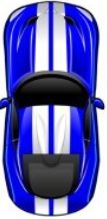
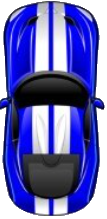
add Tiles to map and remove fon from png car

diff --git a/src/components/MainCars/MainCars.tsx b/src/components/MainCars/MainCars.tsx
@@ -1,7 +1,7 @@
 import { useEffect, useState, useRef } from 'react';
 // import { useLocation } from 'react-router-dom';
 
-import { MapContainer, TileLayer } from 'react-leaflet';
+import { MapContainer, TileLayer, LayersControl } from 'react-leaflet';
 import 'leaflet-rotatedmarker';
 import L from 'leaflet';
 
@@ -21,6 +21,8 @@ function MainCars() {
 
   const [carsBounds, setCarsBounds] = useState<L.LatLngBoundsExpression | [] | any>(null)
   const [companyData, setCompanyData] = useState<ICompanyData | undefined>()
+  const [tileId, setTileId] = useState('tileId-1')
+
   const carsMapVariant = useAppSelector((state) => state.carsMap.carsMapConfig.variant);
 
   const mapRef = useRef<L.Map | null>(null)
@@ -34,8 +36,8 @@ function MainCars() {
   useEffect(() => {
     if (carsMapVariant === 'all') {
 
-      const abortController = new AbortController();
-      const companyData = getCarsFetch(abortController)
+      const abortCtrlInMainCars = new AbortController();
+      const companyData = getCarsFetch(abortCtrlInMainCars)
       companyData
         .then((data) => {
           const carBoundsArray = data.cars.map((car: ICarObject) => {
@@ -53,12 +55,14 @@ function MainCars() {
       if (carsPageconfig.storeReset) {
         dispatch(dataActions.reset())
       }
-      return () => abortController.abort();
+      return () => abortCtrlInMainCars.abort();
     }
 
-  },
+  }, [carsMapVariant, dispatch])
 
-    [carsMapVariant, dispatch])
+  const tileCheckHandler = (id: string) => {
+    setTileId(id)
+  }
 
   return !carsBounds ?
     (<Spinner />)
@@ -80,10 +84,49 @@ function MainCars() {
       >
         {/* <ZoomControl position="topleft" /> */}
         <CustomZoom />
-          <TileLayer
+        <LayersControl position="topright">
+          <LayersControl.Overlay name="Osm map" checked={tileId === 'tileId-1'}>
+            <TileLayer
+              id={'tileId-1'}
             attribution='&amp;copy <a href="http://osm.org/copyright">OpenStreetMap</a> contributors'
             url="https://{s}.tile.osm.org/{z}/{x}/{y}.png"
-        />
+              eventHandlers={{
+                add: (e) => {
+                  tileCheckHandler(e.target.options.id)
+                  console.log("Added Layer:", e.target.options.id);
+                },
+                remove: (e) => {
+                  // console.log("Removed layer:", e.target.id);
+                }
+              }}
+            />
+          </LayersControl.Overlay>
+          <LayersControl.Overlay name="Google map" checked={tileId === 'tileId-2'}>
+            <TileLayer
+              id={'tileId-2'}
+              url="http://{s}.google.com/vt/lyrs=m&x={x}&y={y}&z={z}"
+              subdomains={['mt0', 'mt1', 'mt2', 'mt3']}
+              eventHandlers={{
+                add: (e) => {
+                  tileCheckHandler(e.target.options.id)
+                },
+              }}
+            />
+          </LayersControl.Overlay>
+          <LayersControl.Overlay name="Спутник" checked={tileId === 'tileId-3'}>
+            <TileLayer
+              id={'tileId-3'}
+              url="http://{s}.google.com/vt/lyrs=s&x={x}&y={y}&z={z}"
+              subdomains={['mt0', 'mt1', 'mt2', 'mt3']}
+              eventHandlers={{
+                add: (e) => {
+                  tileCheckHandler(e.target.options.id)
+                },
+              }}
+            />
+          </LayersControl.Overlay>
+        </LayersControl>
+
 
         {String(carsMapVariant) === 'all' && <PainCars mapBounds={carsBounds} carsDataStart={companyData} />}
         {String(carsMapVariant) === 'history' && <PaneHistoryMap />}

diff --git a/src/components/MainCars/PainCars.tsx b/src/components/MainCars/PainCars.tsx
@@ -26,6 +26,7 @@ const PainCars: FC<IPainCars> = ({ mapBounds, carsDataStart }) => {
   const carsFilterObject = useAppSelector((state) => state.carsMap.carsFilter);
 
   const [companyData, setCompanyData] = useState<ICompanyData>(carsDataStart)
+
   const isMobile = useMemo(() => isHasToushScreen(), [])// mobile -> true ? PC -> false
   const map = useMap();
 
@@ -46,7 +47,7 @@ const PainCars: FC<IPainCars> = ({ mapBounds, carsDataStart }) => {
   const getdataForMenuItem = (company: ICompanyData) => {
 
     const dataCarsForMenuItems = company.cars.map((car: ICarObject) => ({
-      car_id: car.car_id,
+      car_id: String(car.car_id),
       car_name: car.car_name,
       checked: true,
       disconnect: false,
@@ -58,7 +59,7 @@ const PainCars: FC<IPainCars> = ({ mapBounds, carsDataStart }) => {
 
   // Фильтр для передачи в Marker (принимает маасив объектов Cars и возвращает все где checked true)
   const filterForMarkers = dataCarsForMarrkers.filter((el: ICarObject) => {
-    if (carsFilterObject && carsFilterObject[el.car_id] === true) return el
+    if (carsFilterObject && carsFilterObject[Number(el.car_id)] === true) return el
   })
 
   const makeFilterObject = (carsData: any) => {
@@ -105,7 +106,7 @@ const PainCars: FC<IPainCars> = ({ mapBounds, carsDataStart }) => {
 
     return () => {
       clearInterval(interval)
-      abortController.abort();
+      // abortController.abort();
     };
   }, [map, mapBounds]);
 
@@ -121,8 +122,14 @@ const PainCars: FC<IPainCars> = ({ mapBounds, carsDataStart }) => {
     map.whenReady(() => {
       // if (isMobile)
       // map.zoomOut()
-      map.fitBounds(mapBounds)
-      zoomOutHandler(map)
+      try {
+        map.fitBounds(mapBounds)
+        zoomOutHandler(map)
+      } catch (error) {
+        console.warn("Ошибка В PainCars map.fitBounds-->", error);
+
+      }
+
       // const zoomOut: HTMLButtonElement | null = document.querySelector('.leaflet-control-zoom-out')
     })
 

diff --git a/src/types/carsTypes.ts b/src/types/carsTypes.ts
@@ -7,15 +7,15 @@ export interface ICompanyData {
 
 // Объект car приходит с сервера
 export type ICarObject = {
-  car_id: number,
+  car_id: string,
   car_name: string,
-  lat: string | number,
-  lng: string | number,
-  angle: string | number,
-  altitude: string | number,
+  lat: string,
+  lng: string,
+  angle: string,
+  altitude: string,
   speed: string,
   pic: string,
-  last_track: string | number
+  last_track: string
 }
 // Для store
 export type ICompanyName = {
@@ -31,7 +31,7 @@ export interface IDataAllCarsForMenu {
 }
 // данные одного car для store и carMenu
 export type IOneCarForMenu = {
-  car_id: number,
+  car_id: string,
   car_name: string,
   checked: boolean,
   disconnect: boolean,

diff --git a/src/components/MainCars/MarkerCar.tsx b/src/components/MainCars/MarkerCar.tsx
@@ -168,7 +168,7 @@ const MarkerCar: FC<CarProps> = ({ car, dataForHistory }) => {
   // Если true значит авто "в сети"
   const isConnection = timeDifference(String(car.last_track))
 
-  function getImgUrl(id: number) {
+  function getImgUrl(id: string) {
     if (Number(id) === 1) return process.env.PUBLIC_URL + '/img/car1.png'
     if (Number(id) === 2) return process.env.PUBLIC_URL + '/img/car2.png'
     if (Number(id) === 33) return process.env.PUBLIC_URL + '/img/car3.png'

diff --git a/src/components/MenuCars/MenuItemCar.tsx b/src/components/MenuCars/MenuItemCar.tsx
@@ -50,7 +50,7 @@ const MenuItemCar: FC<IMenuItems> = React.memo(() => {
         <Box className={style.menuDisconnectBox}>
           <IconDisconnect
             color={'black'}
-              className={!carsIsConnectFilter[carItem.car_id] ? style.menuDisconnectIcon : style.menuIconNoneVisible}
+              className={!carsIsConnectFilter[Number(carItem.car_id)] ? style.menuDisconnectIcon : style.menuIconNoneVisible}
           ></IconDisconnect>
         </Box>
       }
